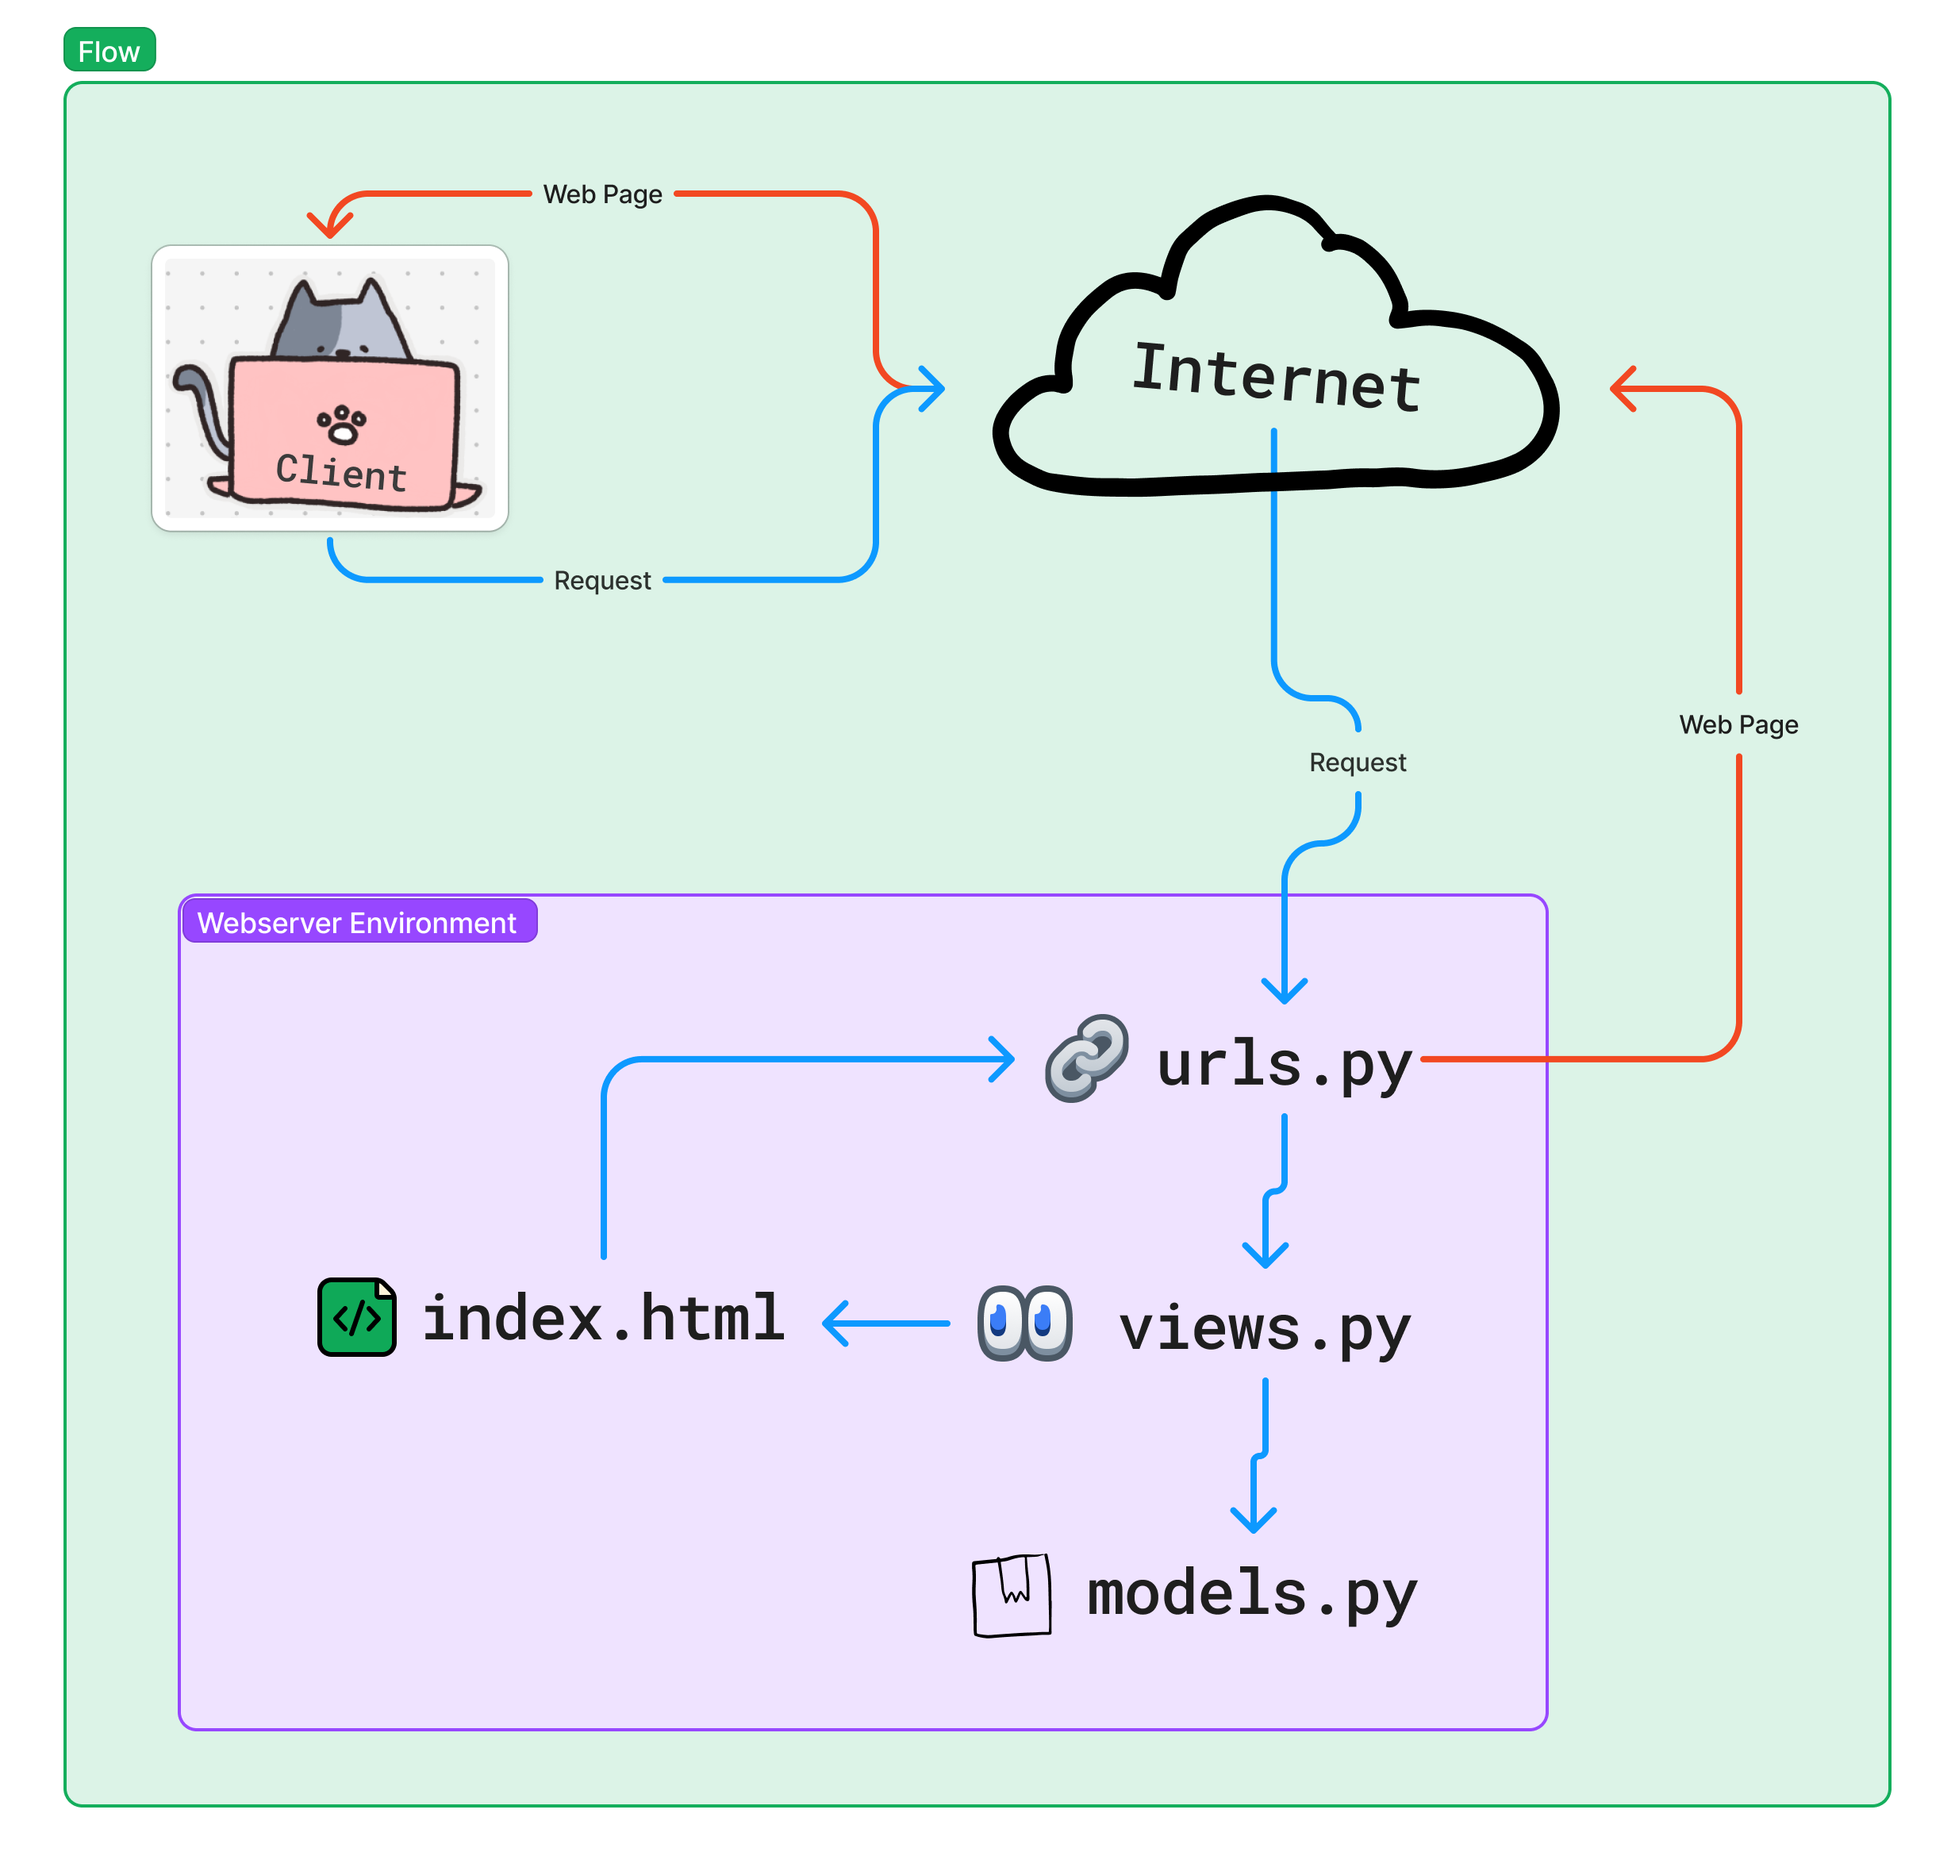
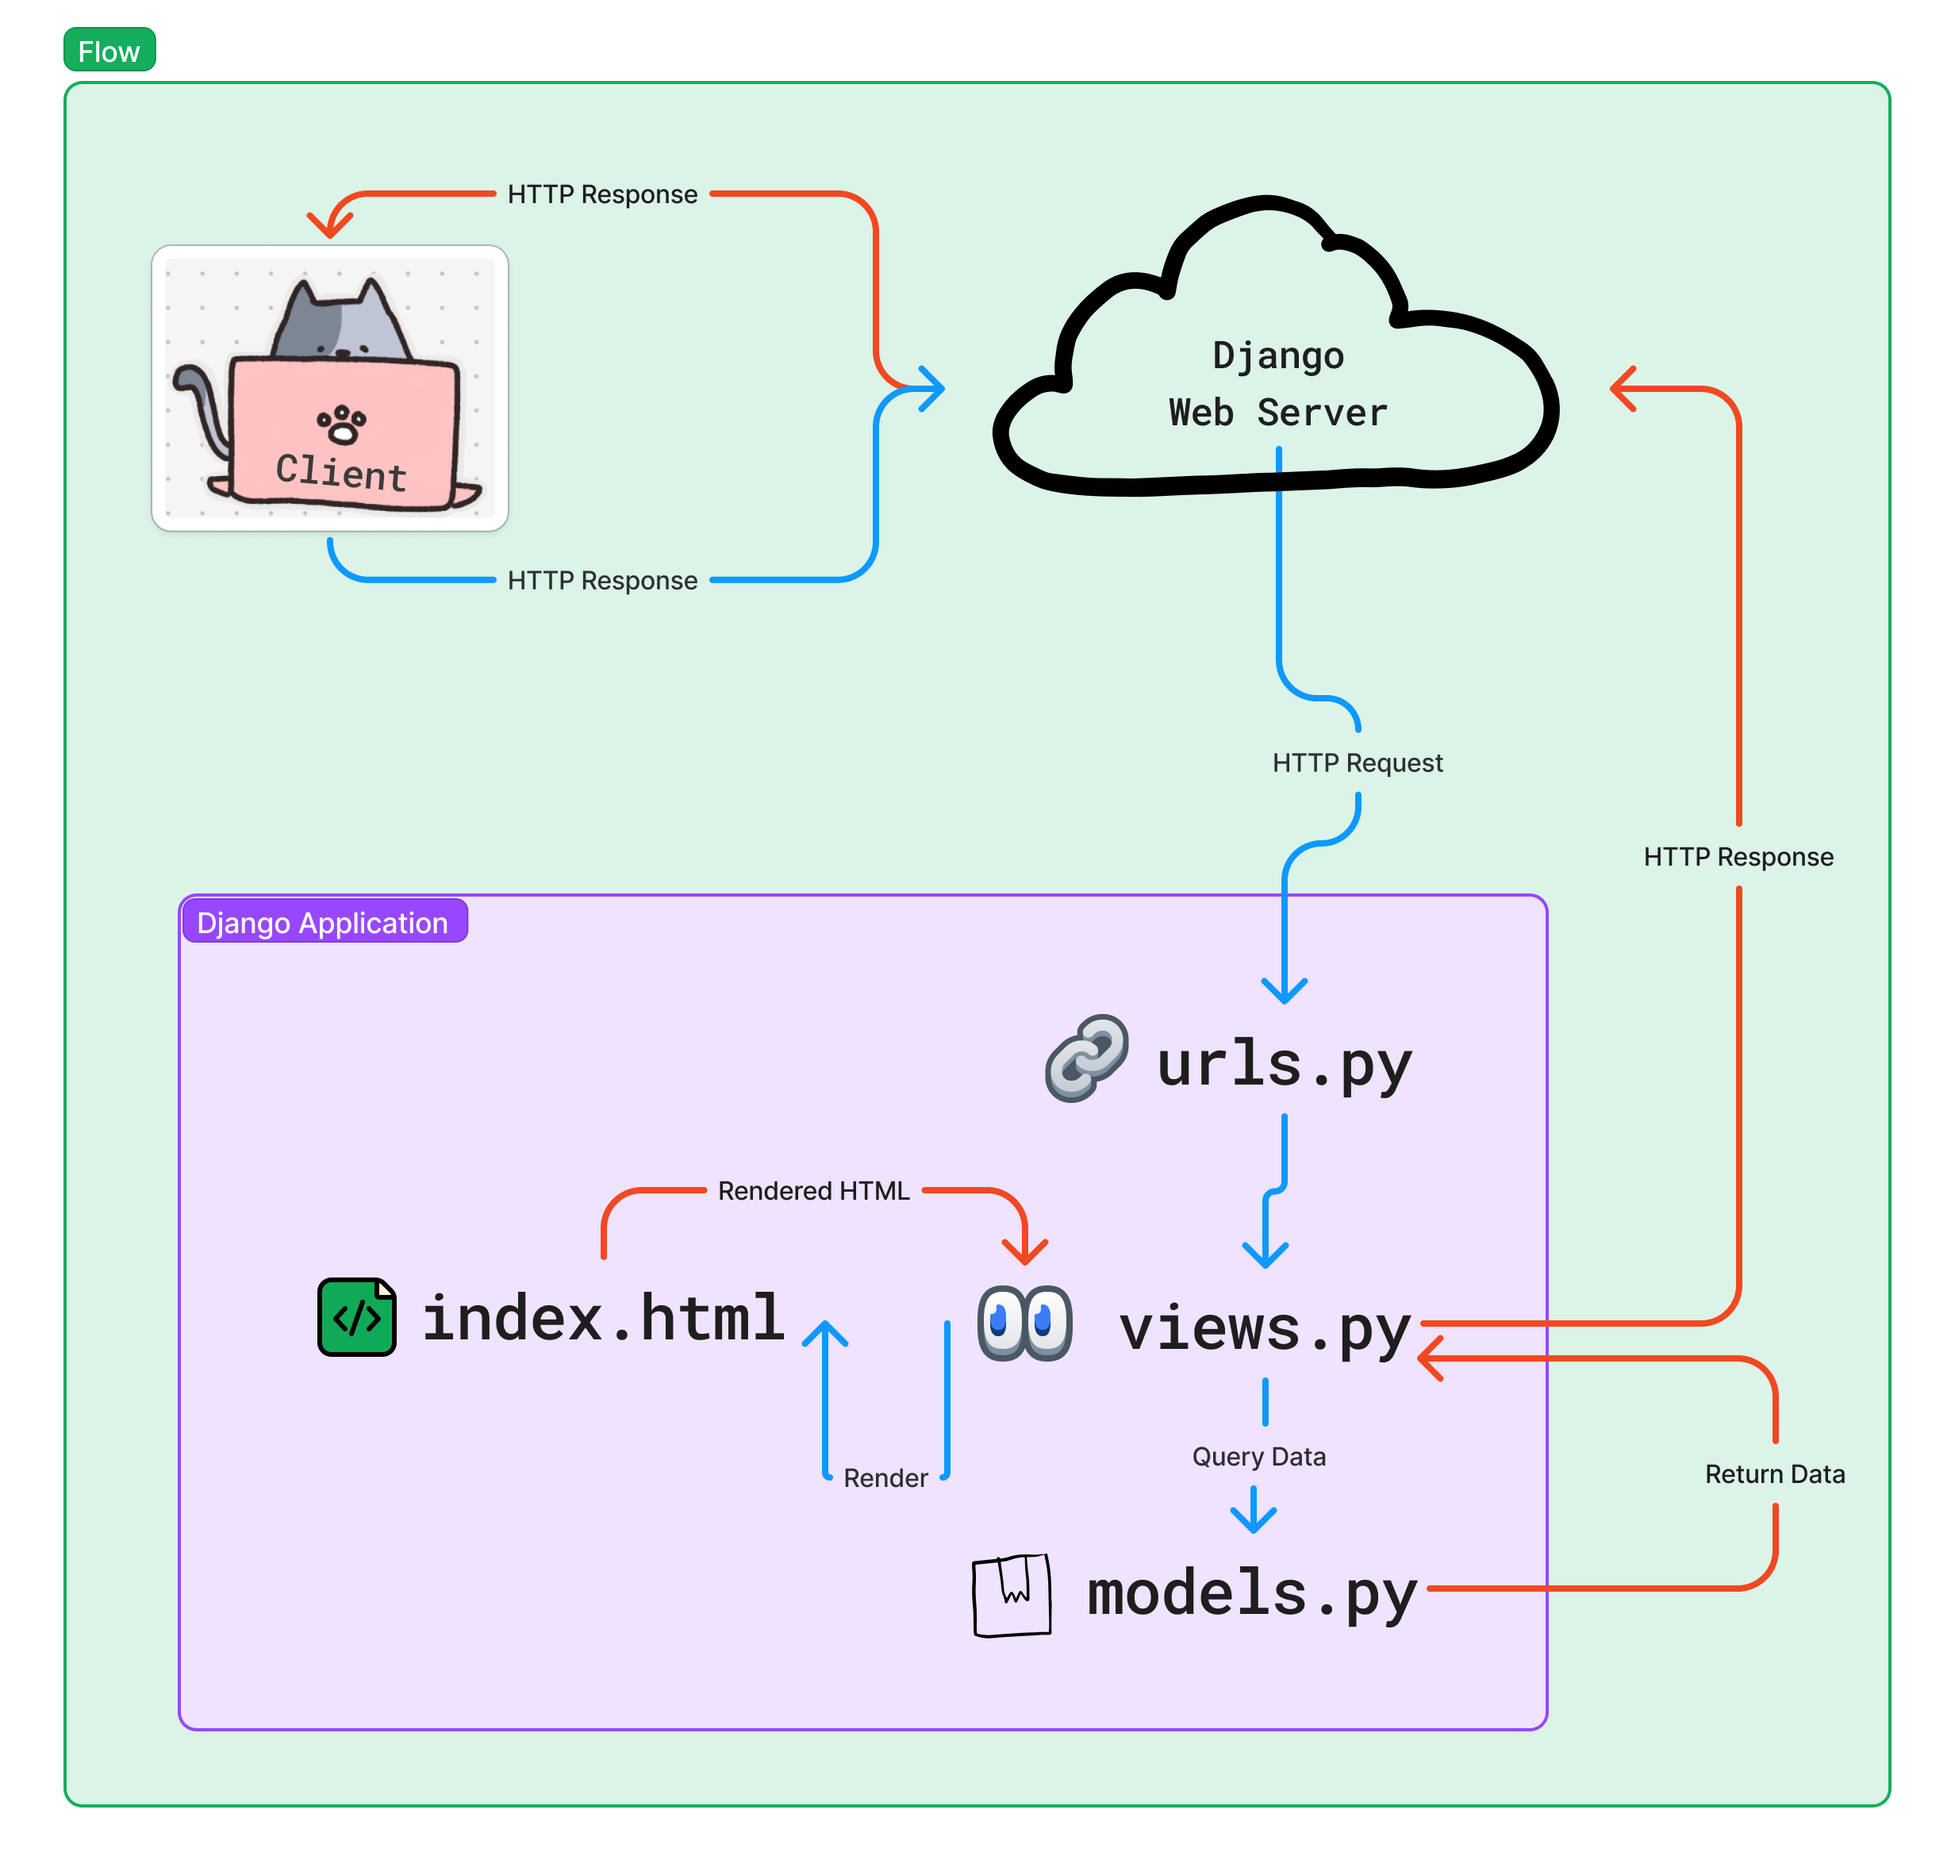
Finished README.md and assignments for Tugas 2

diff --git a/main/templates/home.html b/main/templates/home.html
@@ -1,3 +1,4 @@
+{% load static %}
 <!DOCTYPE html>
 <html lang="en">
 <head>

diff --git a/main/views.py b/main/views.py
@@ -5,9 +5,10 @@ def show_home(request):
         'nama': 'Valentino Kim Fernando',  
         'kelas': 'PBP F',
         'items': [
-            {'name': 'Es Kulkul Uni Bakwan', 'price': 70.000, 'description': 'Es Kulkul Uni Bakwan, es asli dari Uni Bakwan Onde Mande!'},
+            {'name': 'Es Kulkul Uni Bakwan', 'price': 70.000, 'description': 'Es Kulkul Uni Bakwan, es asli dari Uni Bakwan Onde Mande', \
+             'image': 'static/images/unibakwan.png'},
             {'name': 'Ayam Goreng Bunda Mewing', 'price': 25.000, 'description': 'Merupakan salah satu ayam goreng langka yang dibuat oleh \
-             bunda yang mewing.'},
+             bunda yang mewing.', 'image': 'static/images/mewing.png'},
             # Add more items as needed
         ],
     }

diff --git a/README.md b/README.md
@@ -1,19 +1,25 @@
 # BepeShop (an e-commerce django app)
-
 Bepeshop is a very simple app created using django
 
 **Link:** [http://pbp.cs.ui.ac.id/valentino.kim/ecommercepbp/](http://pbp.cs.ui.ac.id/valentino.kim/ecommercepbp/)
 
 # Jawaban Soal Tugas 2
 
+**Nama**: Valentino Kim Fernando 
+**Kelas**: PBP F 
+**NPM**: 2306275771
+
 ## 1. Jelaskan bagaimana cara kamu mengimplementasikan checklist di atas secara step-by-step (bukan hanya sekadar mengikuti tutorial).
 Berikut merupakan bagian pengimplementasian web:
-- Membuat sebuah proyek django baru dengan melakukan startproject
-- Lalu dilanjut dengan membuat app main dengan startapp
-- Melakukan routing dengan mengonfigurasi URL pada app main lalu tidak lupa, dilanjut dengan mengonfigurasi URL pada project
-- Model dibuat pada models.py dengan attribute wajib yaitu name, price dan description dengan tipe masing-masing CharField, IntegerField, TextField
-- Dilanjut dengan membuat file HTML yang berisi barang-barang yang akan ditunjukan pada app
-- Selanjutnya app dideploy ke pws(pbp.cs.ui.ac.id)
+- Buat directory terlebih dahulu, lalu install requirements pada `requirements.txt `Membuat sebuah proyek django baru dengan melakukan `django-admin startproject e_commerce_pbp .`
+- Lalu dilanjut dengan membuat app main dengan `python manage.py startapp main`
+- Melakukan routing dengan mengonfigurasi URL pada app main lalu tidak lupa, dilanjut dengan mengonfigurasi URL pada `urls.py`
+- Model dibuat pada `models.py` dengan attribute wajib yaitu name, price dan description dengan tipe masing-masing CharField, IntegerField, TextField
+- Setelah itu kita melakukan migrasi model supaya project mudah untuk dilacak dengan `python manage.py makemigrations` lalu dilanjut dengan `python manage.py migrate`. Dengan ini direktori migrasi sudah dibuat di database local
+- Dilanjut dengan membuat template HTML yang berisi barang-barang yang akan ditunjukan pada app
+- Tidak lupa kita membuat function pada `views.py` supaya bisa mengisi tampilan yang diinginkan
+- Sebelum deploy, kita tambahkan URL deployment PWS pada `settings.py` di bagian `ALLOWED_HOSTS`
+- Selanjutnya app dideploy ke PWS --> `(pbp.cs.ui.ac.id)` 
 - App bisa dipakai :D!
 
 ## 2. Buatlah bagan yang berisi request client ke web aplikasi berbasis Django beserta responnya dan jelaskan pada bagan tersebut kaitan antara urls.py, views.py, models.py, dan berkas html.
@@ -22,10 +28,14 @@ Bagan request-response dari client ke aplikasi Django:
    <img src="public/PBP_Tugas 2.png">
 
 ## 3. Jelaskan fungsi git dalam pengembangan perangkat lunak!
-Git berfungsi untuk version control dalam pengembangan perangkat lunak. Git membantu melacak perubahan kode, berkolaborasi, dan memudahkan rollback jika ada kesalahan secara efisien.
+Git berfungsi untuk version control dalam pengembangan perangkat lunak. Di antaranya:
+- Git memungkinkan pelacakan dan manajemen perubahan kode sumber secara efisien.
+- Git memfasilitasi kerja sama antar pengembang dengan menggunakan cabang (branches) untuk memisahkan perubahan.
+- Dengan adanya branching, git mendukung eksperimen dan pengembangan fitur baru tanpa mengganggu kode utama.
+- Git Mnyediakan backup penuh dari semua history kode, memudahkan dilakukannya pemulihan data.
 
 ## 4. Menurut Anda, dari semua framework yang ada, mengapa framework Django dijadikan permulaan pembelajaran pengembangan perangkat lunak?
-Django menjadi framework awal yang dipelajari karena arsitekturnya yang terpadu, mudah digunakan (karena menggunakan python), mudah dibaca, serta memiliki struktur MVC (Model-View-Controller) yang membantu memahami alur pengembangan web secara fundamental.
+Django menjadi framework awal yang dipelajari karena arsitekturnya yang terpadu, mudah digunakan (karena menggunakan python), mudah dibaca, serta memiliki struktur MVT (Model-View-Template) yang membantu memahami alur pengembangan web secara fundamental.
 
 ## 5. Mengapa model pada Django disebut sebagai ORM?
 Model Django disebut ORM karena memetakan objek Python ke dalam tabel di database tanpa harus menulis query SQL secara langsung.
